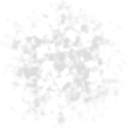
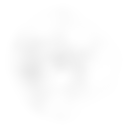
stadium: tyre smoke as a soft plume, not a trail of dots
The brake/drift smoke was about 21 small, fully opaque puffs a second per wheel from a speckled
texture, emitted at the contact point and cut off by the road: at speed, separate blotches 1-2 m
apart. Now a soft puff texture (broad billows only), 110 puffs per 1.6 s per wheel that fade in,
grow and turn, emitted from a box along the wheel's last two ticks of travel (whole at any speed),
with soft particles (depth fade into the road and the car). The look lab race/smoke_lab.tscn shows
it (chase/side views); test_tyre_marks checks the emitter follows the slide and stops on grip.
Docs: the owner's request, progress, handoff.

Claude-Session: https://claude.ai/code/session_011du1UbviPWWAtuSRHRJjjc

diff --git a/stadium/tools/texgen/marks.py b/stadium/tools/texgen/marks.py
@@ -59,12 +59,14 @@ def mark_grass(name='mark_grass', w=128, h=256, seed=421):
 
 
 def puff(name='smoke_puff', n=128, seed=431):
-    """A soft round puff, lumpy at its edge (tinted per surface by the particles' colour)."""
+    """A soft puff of smoke (tinted per surface by the particles' colour): dense in the middle,
+    thinning smoothly to nothing at its edge, gently billowed. Only broad billows: fine lumps and
+    speckle made each puff read as a dot, and many overlapping puffs have to blend into one plume."""
     yy, xx = np.mgrid[0:n, 0:n].astype(np.float32)
     r = np.hypot(xx - n / 2 + 0.5, yy - n / 2 + 0.5) / (n / 2)
-    lump = fbm(n, n, seed, beta=1.8, lo=2.0, hi=24.0)
-    a = smoothstep(1.0, 0.25, r + 0.12 * lump) * (0.85 + 0.15 * lump)
-    rgba = np.concatenate([np.ones((n, n, 3), np.float32) * (0.92 + 0.08 * lump)[..., None], np.clip(a, 0, 1)[..., None]], -1)
+    billow = fbm(n, n, seed, beta=2.4, lo=1.0, hi=4.0)
+    a = np.exp(-3.2 * (r + 0.06 * billow) ** 2) * smoothstep(1.0, 0.8, r) * (0.92 + 0.08 * billow)
+    rgba = np.concatenate([np.ones((n, n, 3), np.float32) * (0.95 + 0.05 * billow)[..., None], np.clip(a, 0, 1)[..., None]], -1)
     save(name, np.clip(rgba, 0, 1))
 
 

diff --git a/docs/PROGRESS.md b/docs/PROGRESS.md
@@ -3680,3 +3680,22 @@ the finish is not finish but multilap", "when you finish ... i could still hear 
   system certs first, the built-in Mozilla bundle only when there are none), which Windows fills
   on demand. If a player ever sees "a secure connection ... (TLS)", ship a CA bundle and retry with
   `TLSOptions.client()` on `RESULT_TLS_HANDSHAKE_ERROR`. Both sites use Let's Encrypt today.
+- Gate: STADIUM_TESTS PASS on 8881361 (21 suites, test_tracks 230, test_community 22, test_online 42,
+  server npm test), run from a separate worktree with the import cache and `node_modules` copied in.
+- **Tyre smoke as a plume, not dots** (owner: "when braking there are white thingies out of the
+  wheel, they should be smooth animations, not some \"dots\""). Before: each wheel's CPUParticles3D
+  emitted 28 puffs per 1.3 s (about 21 a second), 0.3-0.5 m wide at birth and fully opaque, from a
+  mottled, speckled texture (`fbm` up to 24 cycles), at the contact point, and each puff was cut off
+  by the road in a hard line. At 140 km/h they landed 1-2 m apart: a trail of blotches. Now
+  (`race/tm_tyre_marks.gd` `_puff`, `_smoke`; `race/tm_tyre_smoke.gdshader`;
+  `tools/texgen/marks.py` `puff`, regenerated `assets/tex/smoke_puff_albedo.png`): a soft gaussian
+  puff with only broad billows; 110 puffs per 1.6 s per wheel, 0.5-0.7 m at birth, growing to about
+  3-4 m, at random angles and turning slowly, fading in over the first 8% of their life and out
+  after; each tick's puffs come from an emission box along the wheel's last two ticks of travel
+  (`emission_box_extents`), so the plume stays whole at any speed; soft particles (the depth
+  texture, as BaseMaterial3D's proximity fade over 0.4 m), so a puff fades into the road and the
+  car. Each puff's own opacity is lower (rubber 0.5, dirt 0.42, grass 0.26) because they overlap.
+  The look lab `race/smoke_lab.tscn` (a car braking with its wheels locked on a straight road:
+  `--view=chase|side --kmh= --decel= --surface=asphalt|dirt|grass --shots=/abs.png@150`, about
+  2 min a shot in the container) shows it. `tests/test_tyre_marks`: `smoke_spread_along_the_slide`,
+  `smoke_stops_when_gripping`.

diff --git a/docs/HANDOFF.md b/docs/HANDOFF.md
@@ -1,7 +1,7 @@
 # HANDOFF: start here
 
-## Latest (21 Oct, session 17, cloud): three bug fixes after v0.8, on `claude/tender-faraday-m39his`
-- Branch `claude/tender-faraday-m39his` = `stadium` (4e3b8e1, the City probe fix) + three fixes for
+## Latest (21 Oct, session 17, cloud): four bug fixes after v0.8, on `claude/tender-faraday-m39his`
+- Branch `claude/tender-faraday-m39his` = `stadium` (4e3b8e1, the City probe fix) + four fixes for
   the owner's report (TRANSCRIPT, session 17; PROGRESS has the details). It fast-forwards
   `stadium`: merge it there, then tag a release from the PC as usual.
   1. **The car's sound after the finish** fades out over 1.5 s (`TmCarAudio.FINISH_FADE_S`).
@@ -14,7 +14,10 @@
      and whole downloads get 900 s instead of 30 s. If downloads still fail later, check the site
      first (`curl -sI https://maniapark.com/skin/<id>/download`). If a player sees the new "(TLS)"
      message, see PROGRESS (Windows root store; ship a CA bundle).
-- Gate: STADIUM_TESTS PASS on each commit here (see PROGRESS).
+  4. **Tyre smoke** (owner: white "dots" when braking): soft, dense puffs spread along each
+     wheel's travel, fading into the road (soft particles); look at it with
+     `stadium/tools/run.sh res://race/smoke_lab.tscn -- --view=chase|side --shots=/abs.png@150`.
+- Gate: STADIUM_TESTS PASS on 8881361 (fixes 1-3) and on the smoke commit (see PROGRESS).
 
 ## Latest (21 Oct, session 16, owner's Windows PC): **`stadium-v0.8`** = `stadium` + the neon City (M14)
 - Owner: "ship to new version". `claude/tmnf-replica-graphics-nb1kcg` and `ccr-1ce252fc-wl7p3m`

diff --git a/docs/TRANSCRIPT.md b/docs/TRANSCRIPT.md
@@ -1233,3 +1233,13 @@ site's server, TLS, no internet, a timeout), and whole downloads get 15 minutes 
 2: our one-lap tracks end on TMNF's through start/finish block so the car has road to stop on, and
 it carried TMNF's MULTILAP gate and the green start road. On our tracks it is dressed as the finish
 now. 3: the engine, skid and wind fade out over 1.5 s after the finish.)
+
+### User (verbatim)
+
+> also, when braking there are white thingies out of the wheel, they should be smooth animations, not some "dots"
+
+(The tyre smoke: about 21 small, fully opaque puffs a second per wheel, made from a speckled
+texture and cut off by the road, so at speed they landed 1-2 m apart as separate blotches. Now there
+are many more soft puffs that fade in, grow and turn, each tick's puffs are spread along the stretch
+the wheel just covered, and they fade softly into the road. Seen in the new lab
+`race/smoke_lab.tscn`.)

diff --git a/stadium/CLAUDE.md b/stadium/CLAUDE.md
@@ -77,7 +77,7 @@ Updated 2026-10-21 (`stadium` holds everything for v0.7: v0.6 + M11-2..4/M11-8 +
   sound fades after the finish; our one-lap tracks' finish (TMNF's start/finish block, for the
   run-off) is dressed as a finish, not TMNF's MULTILAP gate (`TmMapBuilder.AS_FINISH`); the
   Community page says why a download failed (ManiaPark's downloads were answering HTTP 500) and
-  gives downloads 900 s.
+  gives downloads 900 s; the tyre smoke is a soft plume, not dots (look lab `race/smoke_lab.tscn`).
 - **The neon City (PLAN M14, 21 Oct, session 16):** City maps only: neon barriers (`tm_neon`,
   `blocks/tm_textured.gdshader`) and lights along them, tubes on buildings and the Stadium
   (`env/tm_neon.gd`), an airship, searchlights, LED screens; City nights wet (`tm_wet`) with AgX,
